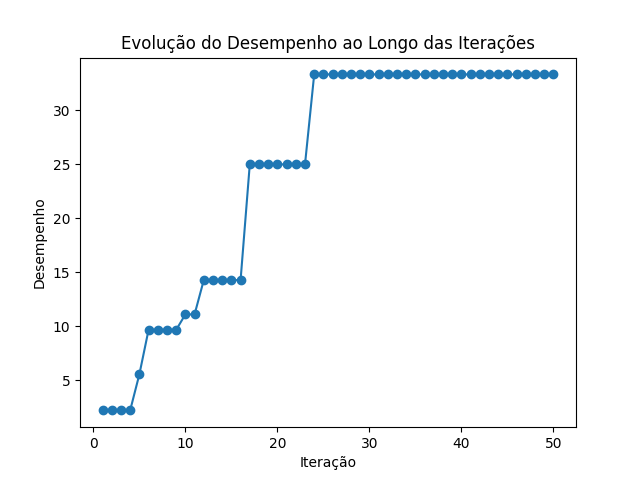
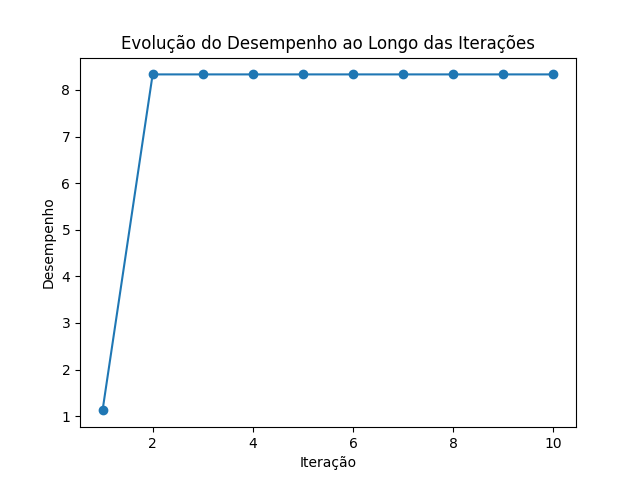
tirando paralelismo

diff --git a/algoritmo_genetico.py b/algoritmo_genetico.py
@@ -91,9 +91,13 @@ def evaluate_individual(individual):
     return score_ransac, score_basic, individual
 
 def evaluate_population(population):
-    with concurrent.futures.ThreadPoolExecutor() as executor:
-        # Avalia cada indivíduo na população em paralelo
-        results = list(executor.map(evaluate_individual, population))
+    if False:
+        with concurrent.futures.ThreadPoolExecutor() as executor:
+            # Avalia cada indivíduo na população em paralelo
+            results = list(executor.map(evaluate_individual, population))
+    results = []
+    for p in population:
+        results.append(evaluate_individual(p))
     
     return results
 
@@ -136,7 +140,7 @@ def mutate_params(individual_param):
      return {param: generates_mutation(param, value) for param, value in individual_param.items()}
 
 if __name__ == "__main__":
-    geracoes = 50
+    geracoes = 10
     populations = generate_random_population(POPULATION_SIZE)
     avaliacao_best = []
     media_populacao = []
